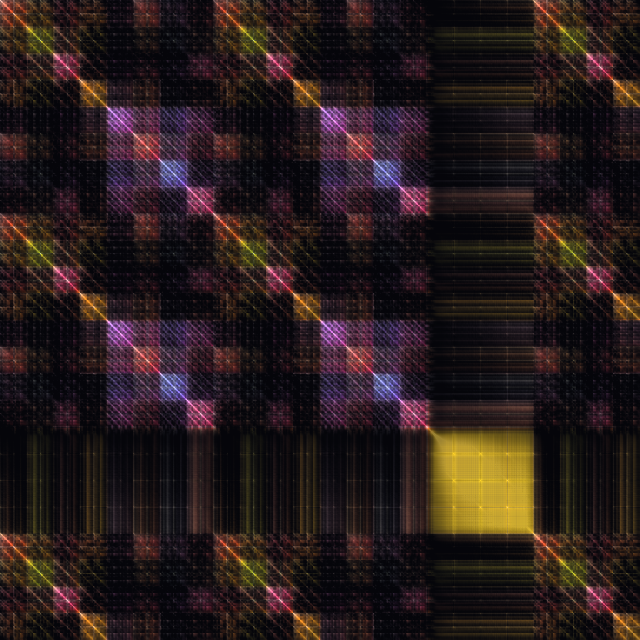
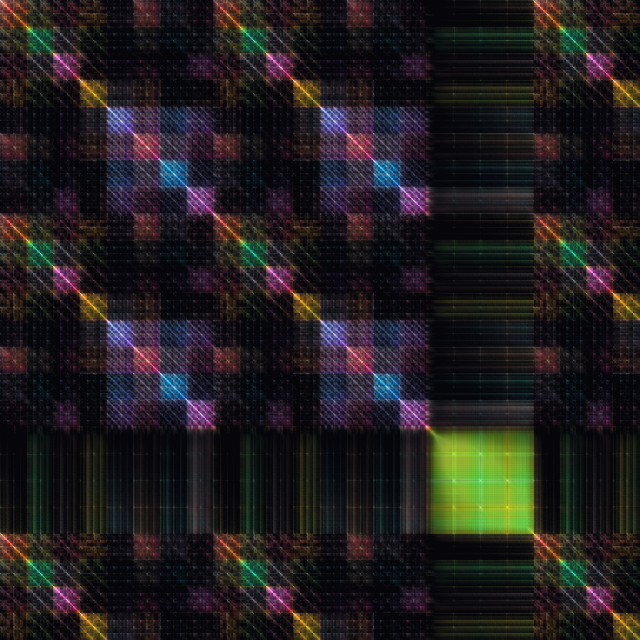
Relative colors: spread each song across the color wheel
Most songs stay in one key, whose notes are neighbors on the circle of
fifths, so absolute hues used only ~a quarter of the wheel, and dense mixes
came out desaturated. New default "relative" color mode:

- Hue: cut the circle at the song's widest unvisited gap, unwrap, and spread
  over up to 300° (half rank-equalized, half linear); monotonic, so harmonic
  neighbors keep neighboring colors; centered on the song's typical harmony;
  stretch capped at 4× so near-static songs stay calm
- Saturation: at least the moment's tonality rank within the song
- Silence ignored when measuring; "absolute" kept as a switch (color:
  relative · absolute), remembered in settings; colors-only repaint
- Tests: spread, order across the seam, stretch cap, centering, saturation,
  silence, and a one-key dense-mix signal (~95° → ~300°)
- README and docs images updated

diff --git a/tests/color.test.ts b/tests/color.test.ts
@@ -2,7 +2,8 @@ import { describe, expect, it } from 'vitest';
 import { binFeatures } from '../src/analysis/pipeline';
 import { extractFeatures } from '../src/analysis/features';
 import { DEFAULT_OPTIONS } from '../src/analysis/types';
-import { fifthsHue, fifthsPosition, frameColors, frameDescriptors } from '../src/color/frameColor';
+import { fifthsHue, fifthsPosition, frameColors, frameDescriptors, relativeDescriptors } from '../src/color/frameColor';
+import { renderDemo } from '../src/audio/demo';
 import { encode8, labToLinear, labToRgb8, lchToLab, lchToLabInGamut, linearToLab, srgbEncode } from '../src/color/oklab';
 import { PALETTE_ORDER, PALETTES } from '../src/color/palettes';
 import { mulberry32 } from '../src/util/random';
@@ -116,5 +117,92 @@ describe('frame colors from real signals', () => {
         }
       }
     }
+  });
+});
+
+describe('relative colors', () => {
+  const desc = (hue: number[], tonal = hue.map(() => 0.5)) => ({
+    hue: Float32Array.from(hue),
+    tonal: Float32Array.from(tonal),
+    loud: Float32Array.from(hue.map(() => 0.5)),
+  });
+  const none = (n: number) => new Uint8Array(n);
+  /** Smallest arc (degrees) containing all hues. */
+  const arcOf = (h: ArrayLike<number>) => {
+    const s = Array.from(h).sort((a, b) => a - b);
+    let gap = 0;
+    for (let k = 0; k < s.length; k++) gap = Math.max(gap, k === s.length - 1 ? s[0] + 1 - s[k] : s[k + 1] - s[k]);
+    return (1 - gap) * 360;
+  };
+
+  it('spreads a one-key song (a quarter of the wheel) across most of it', () => {
+    const rand = mulberry32(9);
+    const hues = Array.from({ length: 300 }, () => 0.1 + 0.25 * rand());
+    expect(arcOf(hues)).toBeLessThan(95);
+    const rel = relativeDescriptors(desc(hues), none(300));
+    expect(arcOf(rel.hue)).toBeGreaterThan(280);
+    expect(arcOf(rel.hue)).toBeLessThanOrEqual(300 + 1e-3); // keeps a gap between the extremes
+  });
+
+  it('preserves the harmonic order (neighbors stay neighbors), even across the 0/1 seam', () => {
+    const rand = mulberry32(10);
+    const unwrapped = Array.from({ length: 200 }, () => rand() * 0.3); // 0.9 … 1.2 on the circle
+    const hues = unwrapped.map((u) => (0.9 + u) % 1);
+    const rel = relativeDescriptors(desc(hues), none(200)).hue;
+    const order = unwrapped.map((_, i) => i).sort((a, b) => unwrapped[a] - unwrapped[b]);
+    const base = rel[order[0]];
+    let prev = -1;
+    for (const i of order) {
+      const u = (((rel[i] - base) % 1) + 1) % 1;
+      expect(u).toBeGreaterThanOrEqual(prev - 1e-6);
+      prev = u;
+    }
+  });
+
+  it('caps the stretch so a near-static song stays near-static', () => {
+    const rand = mulberry32(11);
+    const hues = Array.from({ length: 200 }, () => 0.5 + 0.02 * rand()); // 7° of wobble
+    expect(arcOf(relativeDescriptors(desc(hues), none(200)).hue)).toBeLessThanOrEqual(4 * 7.2 + 0.5);
+  });
+
+  it('keeps the song centered on its typical harmony', () => {
+    const rand = mulberry32(12);
+    const hues = Array.from({ length: 301 }, () => 0.6 + 0.2 * rand());
+    const rel = relativeDescriptors(desc(hues), none(301)).hue;
+    const medianIdx = hues.map((_, i) => i).sort((a, b) => hues[a] - hues[b])[150];
+    expect(hueDist(rel[medianIdx], hues[medianIdx])).toBeLessThan(1);
+  });
+
+  it('gives the most tonal moments full color without muting tonal songs', () => {
+    const tonal = Array.from({ length: 100 }, (_, i) => 0.2 + 0.4 * (i / 99)); // a dense mix: 0.2–0.6
+    const rel = relativeDescriptors(desc(tonal.map((_, i) => 0.1 + i / 1000), tonal), none(100));
+    expect(Math.max(...rel.tonal)).toBe(1);
+    rel.tonal.forEach((v, i) => expect(v).toBeGreaterThanOrEqual(tonal[i] - 1e-6));
+  });
+
+  it('ignores silence when measuring the song, and leaves tiny inputs alone', () => {
+    const rand = mulberry32(13);
+    const hues = Array.from({ length: 100 }, () => 0.2 + 0.1 * rand());
+    const silent = none(110);
+    const withSilence = [...hues, ...Array.from({ length: 10 }, () => 0.7)];
+    silent.fill(1, 100);
+    const a = relativeDescriptors(desc(hues), none(100)).hue;
+    const b = relativeDescriptors(desc(withSilence), silent).hue;
+    for (let i = 0; i < 100; i++) expect(b[i]).toBeCloseTo(a[i], 6);
+    const tiny = desc([0.1, 0.2, 0.3]);
+    expect(relativeDescriptors(tiny, none(3))).toBe(tiny);
+  });
+
+  it('widens a real one-key, dense-mix signal (demo A section + noise)', () => {
+    const sec = 8 * SR;
+    const demoA = renderDemo(SR).subarray(0, sec);
+    const rand = mulberry32(1);
+    const signal = Float32Array.from({ length: 3 * sec }, (_, i) => demoA[i % sec] + 0.12 * (rand() * 2 - 1));
+    const bins = binFeatures(extractFeatures(signal, SR, DEFAULT_OPTIONS), 256);
+    const abs = frameDescriptors(bins);
+    const rel = relativeDescriptors(abs, bins.silent);
+    expect(arcOf(rel.hue)).toBeGreaterThan(arcOf(abs.hue) * 1.8);
+    const mean = (a: Float32Array) => a.reduce((s, v) => s + v, 0) / a.length;
+    expect(mean(rel.tonal)).toBeGreaterThan(mean(abs.tonal));
   });
 });

diff --git a/src/color/frameColor.ts b/src/color/frameColor.ts
@@ -91,6 +91,93 @@ export function frameDescriptors(bins: BinFeatures): FrameDescriptors {
   return { hue, tonal, loud };
 }
 
+/** Absolute: hue means the same harmony in every song. Relative: each song is spread over the whole wheel. */
+export type ColorMode = 'relative' | 'absolute';
+
+export interface RelativeOptions {
+  /** Widest arc of the color wheel the song may use, in turns. A gap is kept so the two harmonic extremes don't meet. */
+  maxArc: number;
+  /** Most a song's harmonic range may be stretched; stops near-static songs from turning tiny wobbles into a rainbow. */
+  maxStretch: number;
+}
+
+const DEFAULT_RELATIVE: RelativeOptions = { maxArc: 5 / 6, maxStretch: 4 };
+
+const wrap01 = (h: number) => ((h % 1) + 1) % 1;
+
+/** Fraction of `sorted` strictly below v, scaled to 0..1. */
+function rankIn(sorted: ArrayLike<number>, v: number): number {
+  let lo = 0;
+  let hi = sorted.length;
+  while (lo < hi) {
+    const mid = (lo + hi) >> 1;
+    if (sorted[mid] < v) lo = mid + 1;
+    else hi = mid;
+  }
+  return sorted.length > 1 ? Math.min(1, lo / (sorted.length - 1)) : 0.5;
+}
+
+/**
+ * Make the colors relative to the song itself.
+ *
+ * Most songs stay in one key, whose notes are neighbors on the circle of fifths, so the
+ * absolute mapping only reaches about a quarter of the color wheel. Here:
+ *
+ * Hue. Cut the circle at the widest gap the song never visits, unwrap its hues into a line,
+ *   and spread them over up to `maxArc` of the wheel. The spreading is half rank-based
+ *   (histogram equalization, so every color gets used) and half linear (so big harmonic jumps
+ *   still look bigger than small ones). The mapping is monotonic, so harmonically neighboring
+ *   moments keep neighboring colors, and the song's typical harmony stays at the center, so the
+ *   key still sets the overall color. Stretching is capped at `maxStretch`.
+ * Saturation. A moment is at least as saturated as its tonality rank within the song, so the
+ *   song's most tonal passages always get full color while its noisiest stay muted.
+ * Lightness is already relative (a loudness percentile).
+ *
+ * Silent bins are ignored when measuring the song.
+ */
+export function relativeDescriptors(
+  desc: FrameDescriptors,
+  silent: Uint8Array,
+  opts: RelativeOptions = DEFAULT_RELATIVE,
+): FrameDescriptors {
+  const n = desc.hue.length;
+  const voiced: number[] = [];
+  for (let i = 0; i < n; i++) if (!silent[i]) voiced.push(i);
+  const m = voiced.length;
+  if (m < 8) return desc;
+
+  // Cut the circle at the end of the largest unvisited gap.
+  const hs = voiced.map((i) => desc.hue[i]).sort((a, b) => a - b);
+  let gap = -1;
+  let cut = 0;
+  for (let k = 0; k < m; k++) {
+    const g = k === m - 1 ? hs[0] + 1 - hs[m - 1] : hs[k + 1] - hs[k];
+    if (g > gap) {
+      gap = g;
+      cut = hs[(k + 1) % m];
+    }
+  }
+  const unwrap = (h: number) => wrap01(h - cut);
+  const us = Float64Array.from(voiced, (i) => unwrap(desc.hue[i])).sort();
+  const q = (p: number) => us[Math.min(m - 1, Math.max(0, Math.round(p * (m - 1))))];
+  const lo = q(0.02);
+  const span = Math.max(1e-6, q(0.98) - lo);
+  const median = q(0.5);
+  const arc = Math.min(opts.maxArc, opts.maxStretch * span);
+  const spread = (u: number) => 0.5 * rankIn(us, u) + 0.5 * Math.min(1, Math.max(0, (u - lo) / span));
+  const center = spread(median);
+
+  const tonalSorted = Float64Array.from(voiced, (i) => desc.tonal[i]).sort();
+
+  const hue = new Float32Array(n);
+  const tonal = new Float32Array(n);
+  for (let i = 0; i < n; i++) {
+    hue[i] = wrap01(cut + median + (spread(unwrap(desc.hue[i])) - center) * arc);
+    tonal[i] = Math.max(desc.tonal[i], rankIn(tonalSorted, desc.tonal[i]));
+  }
+  return { hue, tonal, loud: desc.loud };
+}
+
 /** OKLab color per bin (n×3), with silent bins set to the background. */
 export function frameColors(desc: FrameDescriptors, silent: Uint8Array, palette: Palette): Float32Array {
   const n = desc.hue.length;

diff --git a/src/worker/engine.ts b/src/worker/engine.ts
@@ -23,7 +23,13 @@ import {
   type SimilarityMatrix,
   type SimilarityWeights,
 } from '../analysis/types';
-import { frameColors, frameDescriptors, type FrameDescriptors } from '../color/frameColor';
+import {
+  frameColors,
+  frameDescriptors,
+  relativeDescriptors,
+  type ColorMode,
+  type FrameDescriptors,
+} from '../color/frameColor';
 import { PALETTES, type PaletteId } from '../color/palettes';
 import { paintBloom, paintHeatmap, paintLag, paintPrint, type RenderMode } from '../render/painters';
 
@@ -32,9 +38,16 @@ export interface ViewSettings {
   palette: PaletteId;
   /** Diagonal path enhancement on/off. */
   enhance: boolean;
+  /** Colors relative to this song (full wheel) or absolute (same harmony → same hue in every song). */
+  color: ColorMode;
 }
 
-export const DEFAULT_VIEW: ViewSettings = { mode: 'bloom', palette: 'spectrum', enhance: true };
+export const DEFAULT_VIEW: ViewSettings = { mode: 'bloom', palette: 'spectrum', enhance: true, color: 'relative' };
+
+/** Descriptors as the chosen color mode wants them. */
+function colorDescriptors(desc: FrameDescriptors, silent: Uint8Array, mode: ColorMode): FrameDescriptors {
+  return mode === 'relative' ? relativeDescriptors(desc, silent) : desc;
+}
 
 export interface RenderPayload {
   size: number;
@@ -99,7 +112,7 @@ export class AnalysisEngine {
     if (req.view) {
       const next = { ...this.view, ...req.view };
       if (next.enhance !== this.view.enhance) this.display = this.mask = null;
-      if (next.palette !== this.view.palette) this.colors = null;
+      if (next.palette !== this.view.palette || next.color !== this.view.color) this.colors = null;
       this.view = next;
     }
     return this.render(onProgress);
@@ -138,7 +151,8 @@ export class AnalysisEngine {
     const rgba = this.time('paint', () => {
       if (view.mode === 'heatmap') return paintHeatmap(s, palette);
       if (view.mode === 'print') return paintPrint(recurrencePlot(s), bins.size, palette);
-      const colors = frameColors(frameDescriptors(bins), bins.silent, palette);
+      const desc = colorDescriptors(frameDescriptors(bins), bins.silent, view.color);
+      const colors = frameColors(desc, bins.silent, palette);
       return view.mode === 'lag' ? paintLag(s, colors, palette) : paintBloom(s, colors, palette);
     });
     onProgress?.('painting', 1);
@@ -174,7 +188,10 @@ export class AnalysisEngine {
       });
     }
     const palette = PALETTES[this.view.palette];
-    if (!this.colors) this.colors = frameColors(this.descriptors!, bins.silent, palette);
+    if (!this.colors) {
+      const desc = colorDescriptors(this.descriptors!, bins.silent, this.view.color);
+      this.colors = frameColors(desc, bins.silent, palette);
+    }
 
     onProgress?.('painting', 0.85);
     const rgba = this.time('paint', () => {

diff --git a/src/ui/app.ts b/src/ui/app.ts
@@ -7,6 +7,7 @@ import { decodeToMono, looksLikeAudio } from '../audio/decode';
 import { renderDemo } from '../audio/demo';
 import { Player } from '../audio/player';
 import { encodeWav } from '../audio/wav';
+import type { ColorMode } from '../color/frameColor';
 import type { RenderMode } from '../render/painters';
 import { AbortError, AnalysisClient } from '../worker/client';
 import type { RenderPayload, UpdateRequest } from '../worker/protocol';
@@ -107,13 +108,13 @@ export class App {
   }
 
   private async run(id: number, samples: Float32Array<ArrayBuffer>, sampleRate: number): Promise<void> {
-    const { mode, palette, enhance, preset } = this.settings;
+    const { mode, palette, enhance, preset, color } = this.settings;
     try {
       const payload = await this.client.analyze(
         samples,
         sampleRate,
         { weights: WEIGHT_PRESETS[preset] },
-        { mode, palette, enhance },
+        { mode, palette, enhance, color },
         (stage, f) => id === this.runId && this.progress.show(stage, f),
       );
       if (id !== this.runId) return;
@@ -267,6 +268,15 @@ export class App {
       ],
       s.preset,
       (preset) => void this.change({ preset }, { weights: WEIGHT_PRESETS[preset] }),
+    );
+    segmented<ColorMode>(
+      $('color'),
+      [
+        { value: 'relative', label: 'relative', title: "Colors spread across this song's own harmonic range" },
+        { value: 'absolute', label: 'absolute', title: 'The same harmony gets the same hue in every song' },
+      ],
+      s.color,
+      (color) => void this.change({ color }, { view: { color } }),
     );
     paletteSwatches($('palettes'), s.palette, (palette) => void this.change({ palette }, { view: { palette } }));
     toggle($<HTMLButtonElement>('enhance'), s.enhance, (enhance) => void this.change({ enhance }, { view: { enhance } }));

diff --git a/src/ui/settings.ts b/src/ui/settings.ts
@@ -1,5 +1,6 @@
 /** Remembers the viewer's last choices in localStorage. Storage may be unavailable (private mode, blocked), so every access is guarded. */
 import { WEIGHT_PRESETS, type WeightPreset } from '../analysis/types';
+import type { ColorMode } from '../color/frameColor';
 import { PALETTES, type PaletteId } from '../color/palettes';
 import { RENDER_MODES, type RenderMode } from '../render/painters';
 
@@ -8,10 +9,11 @@ export interface Settings {
   palette: PaletteId;
   enhance: boolean;
   preset: WeightPreset;
+  color: ColorMode;
 }
 
 const KEY = 'reprise.settings.v1';
-export const DEFAULT_SETTINGS: Settings = { mode: 'bloom', palette: 'spectrum', enhance: true, preset: 'blend' };
+export const DEFAULT_SETTINGS: Settings = { mode: 'bloom', palette: 'spectrum', enhance: true, preset: 'blend', color: 'relative' };
 
 export function loadSettings(): Settings {
   try {
@@ -21,6 +23,7 @@ export function loadSettings(): Settings {
       palette: raw.palette && raw.palette in PALETTES ? raw.palette : DEFAULT_SETTINGS.palette,
       enhance: typeof raw.enhance === 'boolean' ? raw.enhance : DEFAULT_SETTINGS.enhance,
       preset: raw.preset && raw.preset in WEIGHT_PRESETS ? raw.preset : DEFAULT_SETTINGS.preset,
+      color: raw.color === 'absolute' || raw.color === 'relative' ? raw.color : DEFAULT_SETTINGS.color,
     };
   } catch {
     return { ...DEFAULT_SETTINGS };

diff --git a/index.html b/index.html
@@ -35,6 +35,9 @@
         <span id="listen" class="switch" role="group" aria-label="Compare moments by">
           <span class="dim">listen to</span>
         </span>
+        <span id="color" class="switch" role="group" aria-label="Color mapping">
+          <span class="dim">color</span>
+        </span>
         <span id="palettes" class="swatches" role="group" aria-label="Palette"></span>
         <button id="enhance" class="toggle" type="button" title="Path enhancement: smooth along diagonals so repeated passages read as clean lines">enhance</button>
         <button id="export" type="button" title="Save a 4096 × 4096 PNG for printing">export</button>

diff --git a/tests/engine.test.ts b/tests/engine.test.ts
@@ -34,6 +34,10 @@ describe('AnalysisEngine (worker core)', () => {
     expect(Object.keys(palette.timings)).toEqual(['paint']);
     expect(differing(first.rgba, palette.rgba)).toBeGreaterThan(1000);
 
+    const color = engine.update({ view: { color: 'absolute' } });
+    expect(Object.keys(color.timings)).toEqual(['paint']);
+    expect(differing(palette.rgba, color.rgba)).toBeGreaterThan(1000);
+
     const mode = engine.update({ view: { mode: 'heatmap' } });
     expect(Object.keys(mode.timings)).toEqual(['paint']);
 

diff --git a/README.md b/README.md
@@ -45,6 +45,7 @@ The image is symmetric, because "a sounds like b" is the same statement as "b so
 | **Click** | Seek to that moment (the column's time) and play. While playing, a cross-hair moves along the diagonal at (t, t). |
 | **Space** / **← →** | Play/pause, and jump 5 s back or forward. |
 | **listen to** | Compare moments by **harmony** (notes and chords), **timbre** (tone color), or **both**. |
+| **color** | **relative** (default) spreads this song's own harmonic range across the color wheel. **absolute** gives the same harmony the same hue in every song. |
 | **Palette dots** | Spectrum, Nocturne, Ember, Ink, Paper. |
 | **enhance** | Smooths along the diagonals so repeated passages read as clean lines. |
 | **export** | Saves a **4096 × 4096 PNG** rendered at full resolution (not upscaled). That's about 35 cm square at 300 dpi. |
@@ -103,6 +104,14 @@ Every time bin gets a color in **OKLCH**, a perceptual color space in which ligh
 - **Hue** comes from where the harmony sits on the **circle of fifths**. Pitch class *p* sits at angle 2π·(7p mod 12)/12, so C, G, D, A… are neighbors. The hue is the chroma-weighted circular mean of those angles, with squared weights to favor the dominant notes, smoothed over about 0.4 s. Harmonically related chords therefore get related colors, and the tritone sits on the opposite side of the wheel.
 - **Lightness** comes from loudness, as a percentile within the song.
 - **Saturation** comes from tonality: low spectral flatness combined with a focused pitch profile (the length of that circular mean). Drums and noise come out greyish, and sustained harmony comes out vivid.
+
+**Relative color** (the default). Most songs stay in one key, whose notes are neighbors on the circle of fifths, so the absolute mapping above reaches only about a quarter of the wheel, and dense mixes (drums, distortion, reverb) look noisy and come out desaturated. Relative mode adapts the colors to the song:
+
+- **Hue:** the circle is cut at the widest gap the song never visits, and the song's hues are unwrapped and spread over up to 300° of the wheel. Half of the spreading is rank-based (histogram equalization, so every color gets used) and half is linear (so big harmonic jumps still look bigger than small ones). The mapping is monotonic, so harmonic neighbors keep neighboring colors, and the song's typical harmony stays at the center, so the key still sets the overall color. Stretching is capped at 4×, so a nearly static song doesn't turn tiny wobbles into a rainbow.
+- **Saturation:** a moment is at least as saturated as its tonality *rank* within the song, so the song's most tonal passages always get full color.
+- Silence is ignored when measuring the song.
+
+On a one-key test signal with a dense mix, this widens the hue range from about 95° to about 300°.
 
 In **bloom** mode, pixel (i, j) starts from the palette background and moves toward the OKLab midpoint of the two moments' colors in proportion to their similarity. Near-identical moments get a small extra lift in lightness (the glow). Colors are gamut-mapped by reducing chroma, and the conversion to 8-bit sRGB uses a lookup table indexed by √value, which gives fine resolution in the darks where banding would show.
 
@@ -163,7 +172,7 @@ docs/         README images, rendered from the demo
 
 ## Tests
 
-`npm test` runs about 70 tests on synthetic signals:
+`npm test` runs 75 tests on synthetic signals:
 
 - **FFT**: matches a naive DFT and satisfies Parseval's theorem.
 - **Chroma**: a pure sine (A4, C4, G3, F♯5) gives a constant chroma peak at its pitch class in every frame, clearly dominant.
@@ -171,6 +180,7 @@ docs/         README images, rendered from the demo
 - **No structure**: white noise produces a flat lag profile in every mode. Prominence is measured in units of the matrix's own off-diagonal spread, because the modes have very different raw ranges.
 - **Features separate what they should**: chroma groups the same pitch across timbres, and MFCC groups the same timbre across pitches.
 - **Color**: OKLab round-trips; gamut mapping stays in sRGB; C→G is a 30° hue step and C→F♯ is 180°; noise is less saturated than tones; louder moments are lighter.
+- **Relative color**: a one-key song spreads from under 95° to over 280° of the wheel; harmonic order is preserved, even across the 0/1 seam; near-static songs stay near-static; the song stays centered on its typical harmony; silence is ignored.
 - **Painters**: bloom's diagonal is the color timeline; lag turns a diagonal into a horizontal line; print is symmetric and sparse; enhancement keeps stripes and dilutes isolated spikes.
 - **Engine**: each change recomputes only what it invalidates; export renders natively without disturbing the on-screen state.
 - **Timeline**: pixel ↔ time mapping and the tooltip text (`0:42 ↔ 1:58`, `0:42 · echo of 0:12 (lag 0:30)`).
